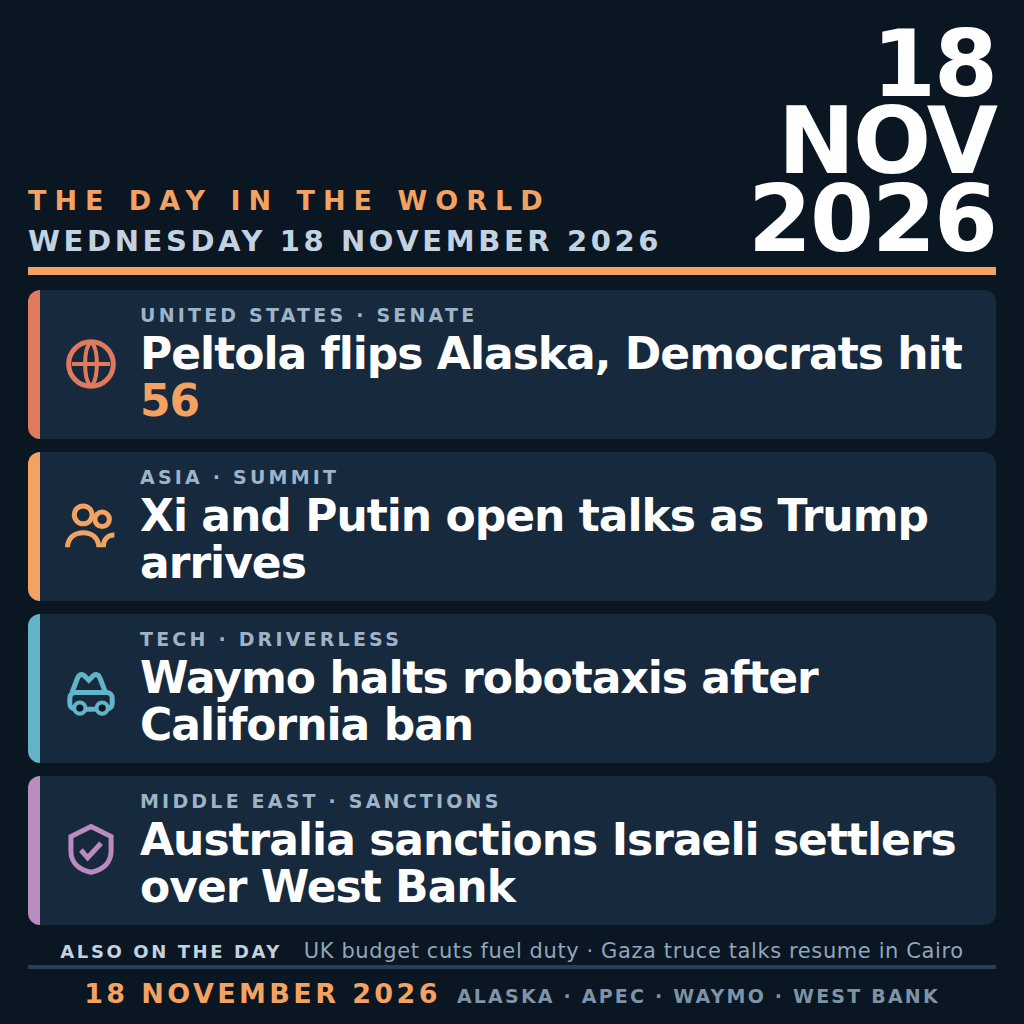
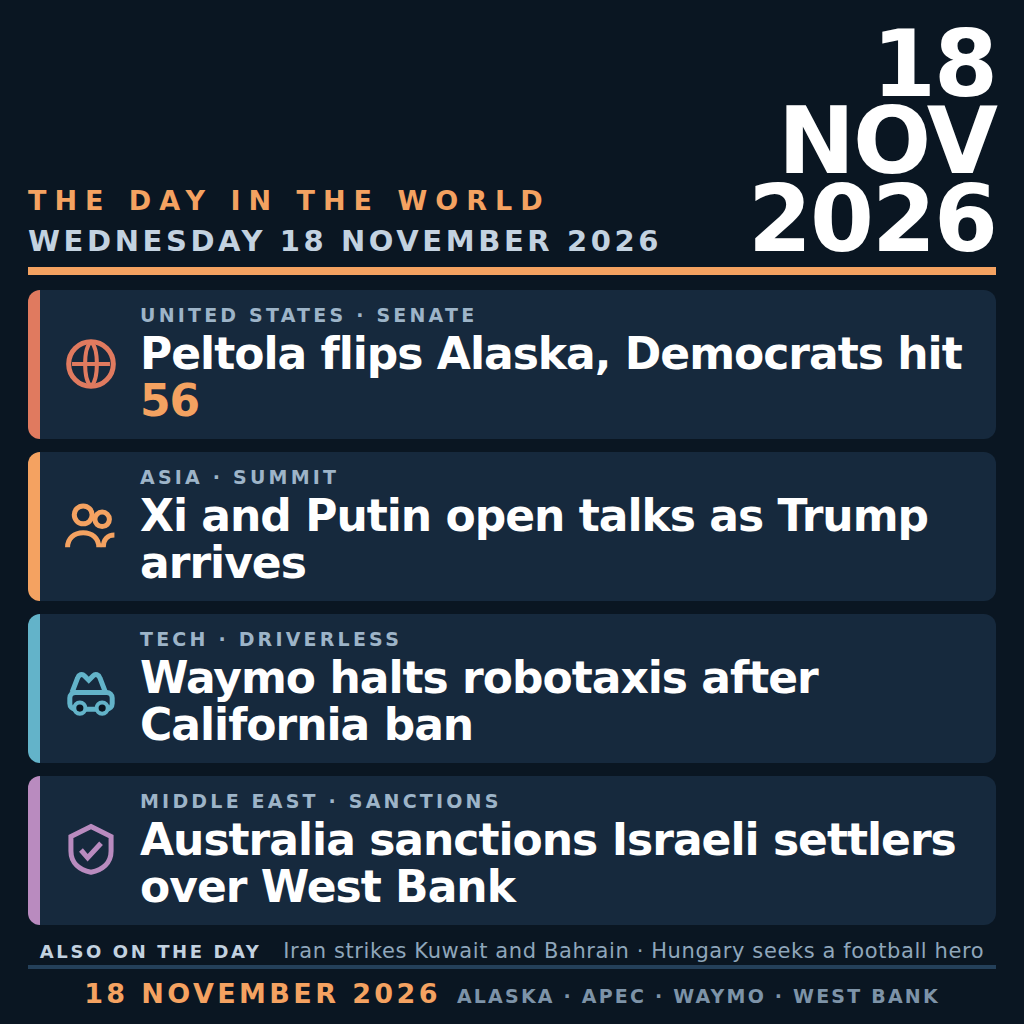
Name the day's second-tier stories truthfully

Changed region(s): [[0.0312, 0.9062, 0.9688, 0.9375]]

diff --git a/card.html b/card.html
@@ -90,7 +90,7 @@
 
 </div>
 
-<div class="also"><b>Also on the day</b> &nbsp; UK budget cuts fuel duty &middot; Gaza truce talks resume in Cairo</div>
+<div class="also"><b>Also on the day</b> &nbsp; Iran strikes Kuwait and Bahrain &middot; Hungary seeks a football hero</div>
 
 <footer>
   <span class="foot-date">18 NOVEMBER 2026</span>
